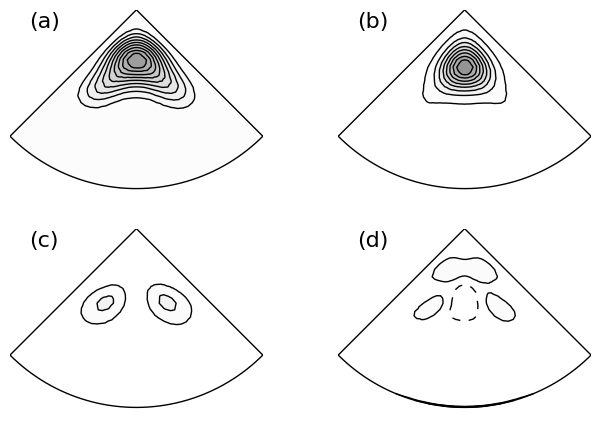
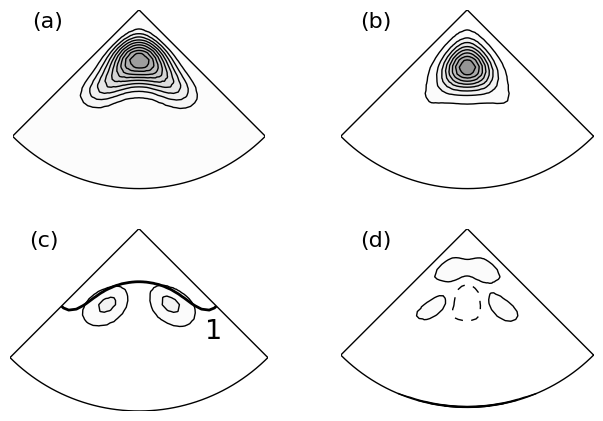
23 fixed

diff --git a/ch3_oxgen.tex b/ch3_oxgen.tex
@@ -129,7 +129,7 @@
 
 \begin{figure}
 \center{\includegraphics[width=0.66\linewidth]{pipetw_ox1gen.png}}
-\caption{Распределение по сечению трубы среднего квадрата пульсаций продольной завихренности $\overline{\omega'_x \omega'_x }^x$ (а), вклад в производство $\overline{\omega'_x \omega'_x }^x$ со стороны слагаемых, соответствующих \eqref{ox1gen_add_terms} (b), \eqref{ox1gen_main_terms} (c) и сумме остальных слагаемых в правой части \eqref{ox2_eq} (d). Сплошные линии --- положительные значения, прерывистые --- отрицательные.}
+\caption{Распределение по сечению трубы среднего квадрата пульсаций продольной завихренности $\overline{\omega'_x \omega'_x }^x$ (а), вклад в производство $\overline{\omega'_x \omega'_x }^x$ со стороны слагаемых, соответствующих \eqref{ox1gen_add_terms} (b), \eqref{ox1gen_main_terms} (c) и сумме остальных слагаемых в правой части \eqref{ox2_eq} (d). Сплошные линии --- положительные значения, прерывистые --- отрицательные, кривая 1 --- критический слой ($V_x = c_\mathrm{tw}$).}
 \label{ox1gen_pic}
 \end{figure}
 
@@ -156,7 +156,9 @@
 
 На рисунке~\ref{ox1gen_pic}(c) приведен вклад выделенного в \eqref{ox1gen_main_terms} слагаемого в производство $\overline{\omega'_x \omega'_x}^x$. Это слагаемое определяет форму пульсаций в области существования продольных вихрей --- между полосами повышенной и пониженной скорости. Суммарный вклад других слагаемых в правой части \eqref{ox1_eq}, не попавших на рисунки~\ref{ox1gen_pic}(b,c), изображен на рисунке~\ref{ox1gen_pic}(d). Эти слагаемые также поддерживают существование колебаний в области расположения продольных вихрей, но их влияние оказывается значительно ниже влияния выделенного в \eqref{ox1gen_main_terms} слагаемого. В точке, где $\Omega_x$ достигает максимума, приведенная на рисунке (d) величина оказывается в три раза ниже приведенной на рисунке (c). Стоит также учитывать, что пульсации, генерируемые слагаемыми, которым соответствует рисунок (d), не обязательно согласованы по фазе с пульсациями продольной скорости нужным для поддержания продольных вихрей образом, так что роль слагаемых (d) в поддержании продольных вихрей может оказаться еще ниже. 
 
-Пульсации продольной завихренности, согласованные с пульсациями продольной скорости необходимым для поддержания продольных вихрей образом, имеют наибольшую амплитуду в области образования пульсационной составляющей движения, между полосами повышенной и пониженной скорости, по нескольким причинам. Во-первых, в этой области пульсации продольной скорости, ответственные за образование пульсаций продольной завихренности, также имеют наибольшую амплитуду. Во вторых, в этой области средняя скорость течения близка к фазовой скорости пульсаций, благодаря чему сформированные пульсации $\omega'_x$, сносимые вниз по потоку основным течением, сохраняют согласованность фаз с производящими их пульсациями $\partial v_x'/\partial x$. Потеря согласованности фаз привела бы к невозможности дальнейшего роста $\omega'_x$. Продольные вихри располагаются в области возникновения пульсаций, между полосами повышенной и пониженной скорости, так как именно в этой области пульсации продольной скорости и пульсации продольной завихренности имеют наибольшую амплитуду. Таким образом продольные вихри оказываются расположены наиболее удачным образом для поддержания существования полос. 
+Отметим, что выполнено необходимое условие для образования пульсаций $\omega'_x$ слагаемым \eqref{ox1gen_main_terms}. Продольные вихри образуются вблизи критического слоя, в котором средняя скорость жидкости совпадает с фазовой скоростью бегущей волны $c_\mathrm{tw} = 0.77$. Критическому слою соответствует кривая 1 на Рис. \ref{ox1gen_pic}(c). По этой причине в системе отчета бегущей волны в области образования продольных вихрей все конвективные слагаемые в правой части \eqref{ox2_eq} близки к нулю. В отсутствии конвекции производимые слагаемым \eqref{ox1gen_main_terms} пульсации $\omega'_x$ сохраняют согласованность фаз с пульсациями $\partial v'_x / \partial x$, что необходимо для дальнейшего роста амплитуды пульсаций $\omega'_x$ и формирования стационарных продольных вихрей. 
+
+Таким образом, продольные вихри образуются в области возбуждения пульсаций, между полосами повышенной и пониженной скорости, так как именно в этой области средняя скорость жидкости совпадает с фазовой скоростью пульсаций и пульсации имеют наибольшую амплитуду. Пульсации продольной скорости сжимая и растягивая существующие в потоке вихревые трубки формируют пульсации продольной завихренности, согласованные с пульсациями продольной скорости таким образом, что их нелинейное взаимодействие поддерживает продольны вихри. Образуясь между соседними полосами повышенной и пониженной скорости, продольные вихри оказываются расположены наиболее удачным образом для поддержания существования этих полос. 
 
 Описанный механизм генерации пульсаций продольной завихренности объясняет необходимость учета поперечного движения при исследовании устойчивости стационарного течения. Пренебрежение связанной с поперечным движением $\Omega_x$ делает невозможным генерацию $\omega'_x$ в форме, необходимой для сохранения поперечного движения, а следовательно и всего процесса самоподдержания пульсаций.
 
